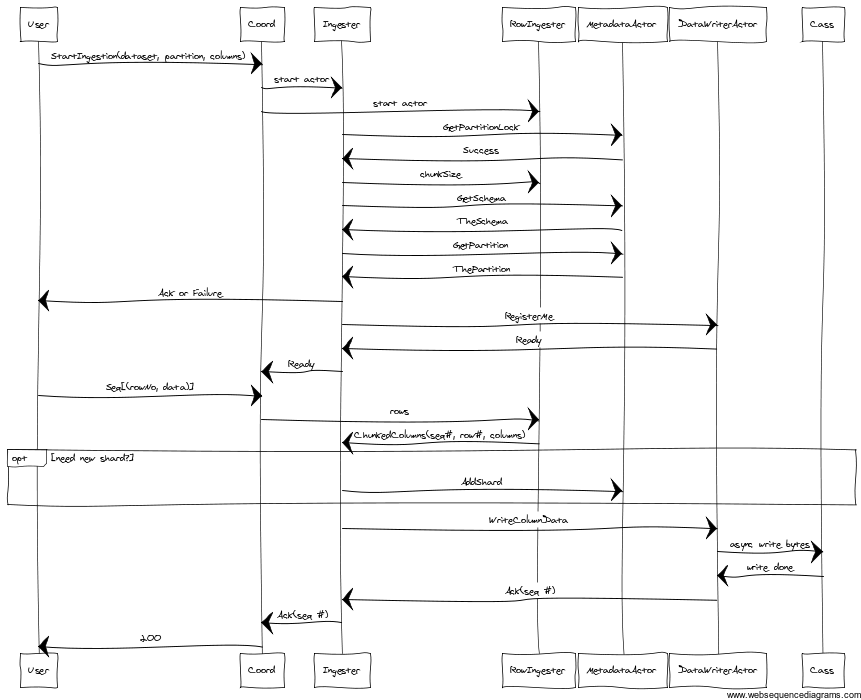
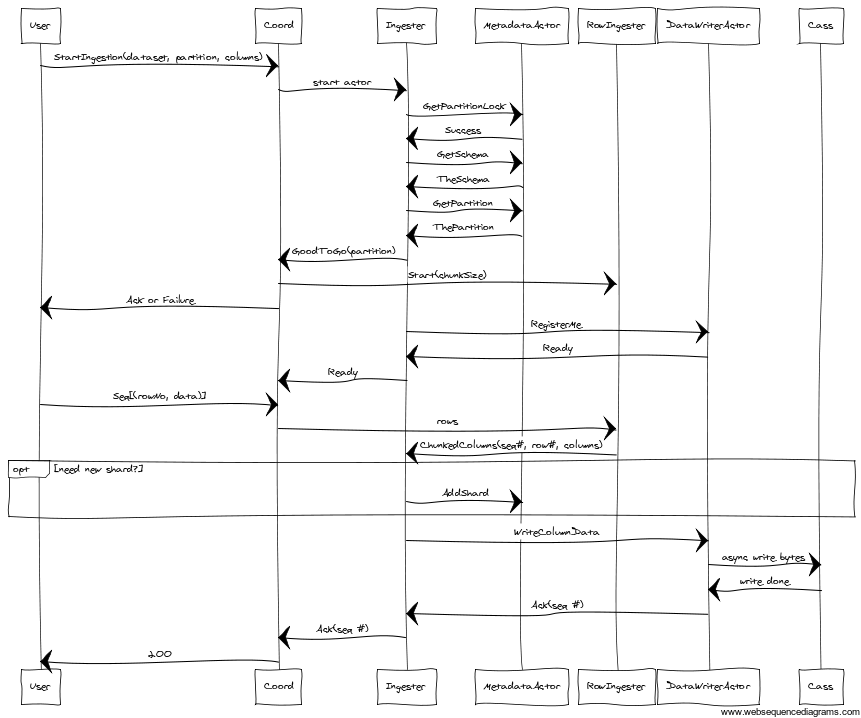
Take a sequence number and ack it on write; update ingestion flow diagram

diff --git a/doc/ingestion.md b/doc/ingestion.md
@@ -7,6 +7,11 @@
 4. Efficient ingest and efficient retries
 5. Should work for streaming data, including error recovery
 
+NOTE: The ingestion is designed for high-volume ingestion of fewer datasets at a
+time, due to the nature of bulk columnar chunk ingestion.  It is not designed
+for lots of tiny row ingestions across a huge number of datasets at once.  It is
+advised that for lots of datasets, they be ingested a few at a time.
+
 ## Use Case - Append-Only Writes
 
 - User divides dataset into independent partitions, sequences input rows
@@ -61,8 +66,8 @@ A middle ground is a EstimatingHashingSharder.  This uses info from the schema t
 **High-level Row API** - ingest individual rows with a sequence # and Row ID.  A RowIngester groups the rows into chunks aligned with the chunksize and translates into columnar format.
 - Also takes care of replaces by reading older chunks and doing operations on it
 
-**Low-level columnar API** - `Columns(startingRowId: Long, endingRowId: Long, columns: Map[String, ColumnBuilder[_]])`
-- Assumed that starting and ending row IDs are already chunk-aligned
+**Low-level columnar API** - `Columns(rowId: Long, endingSequenceNo: Long, columns: Map[String, ColumnBuilder[_]])`
+- Assumed that starting row IDs are already chunk-aligned
 - Only for append patterns, does not handle replacements
 
 ## Ingestion walk-through
